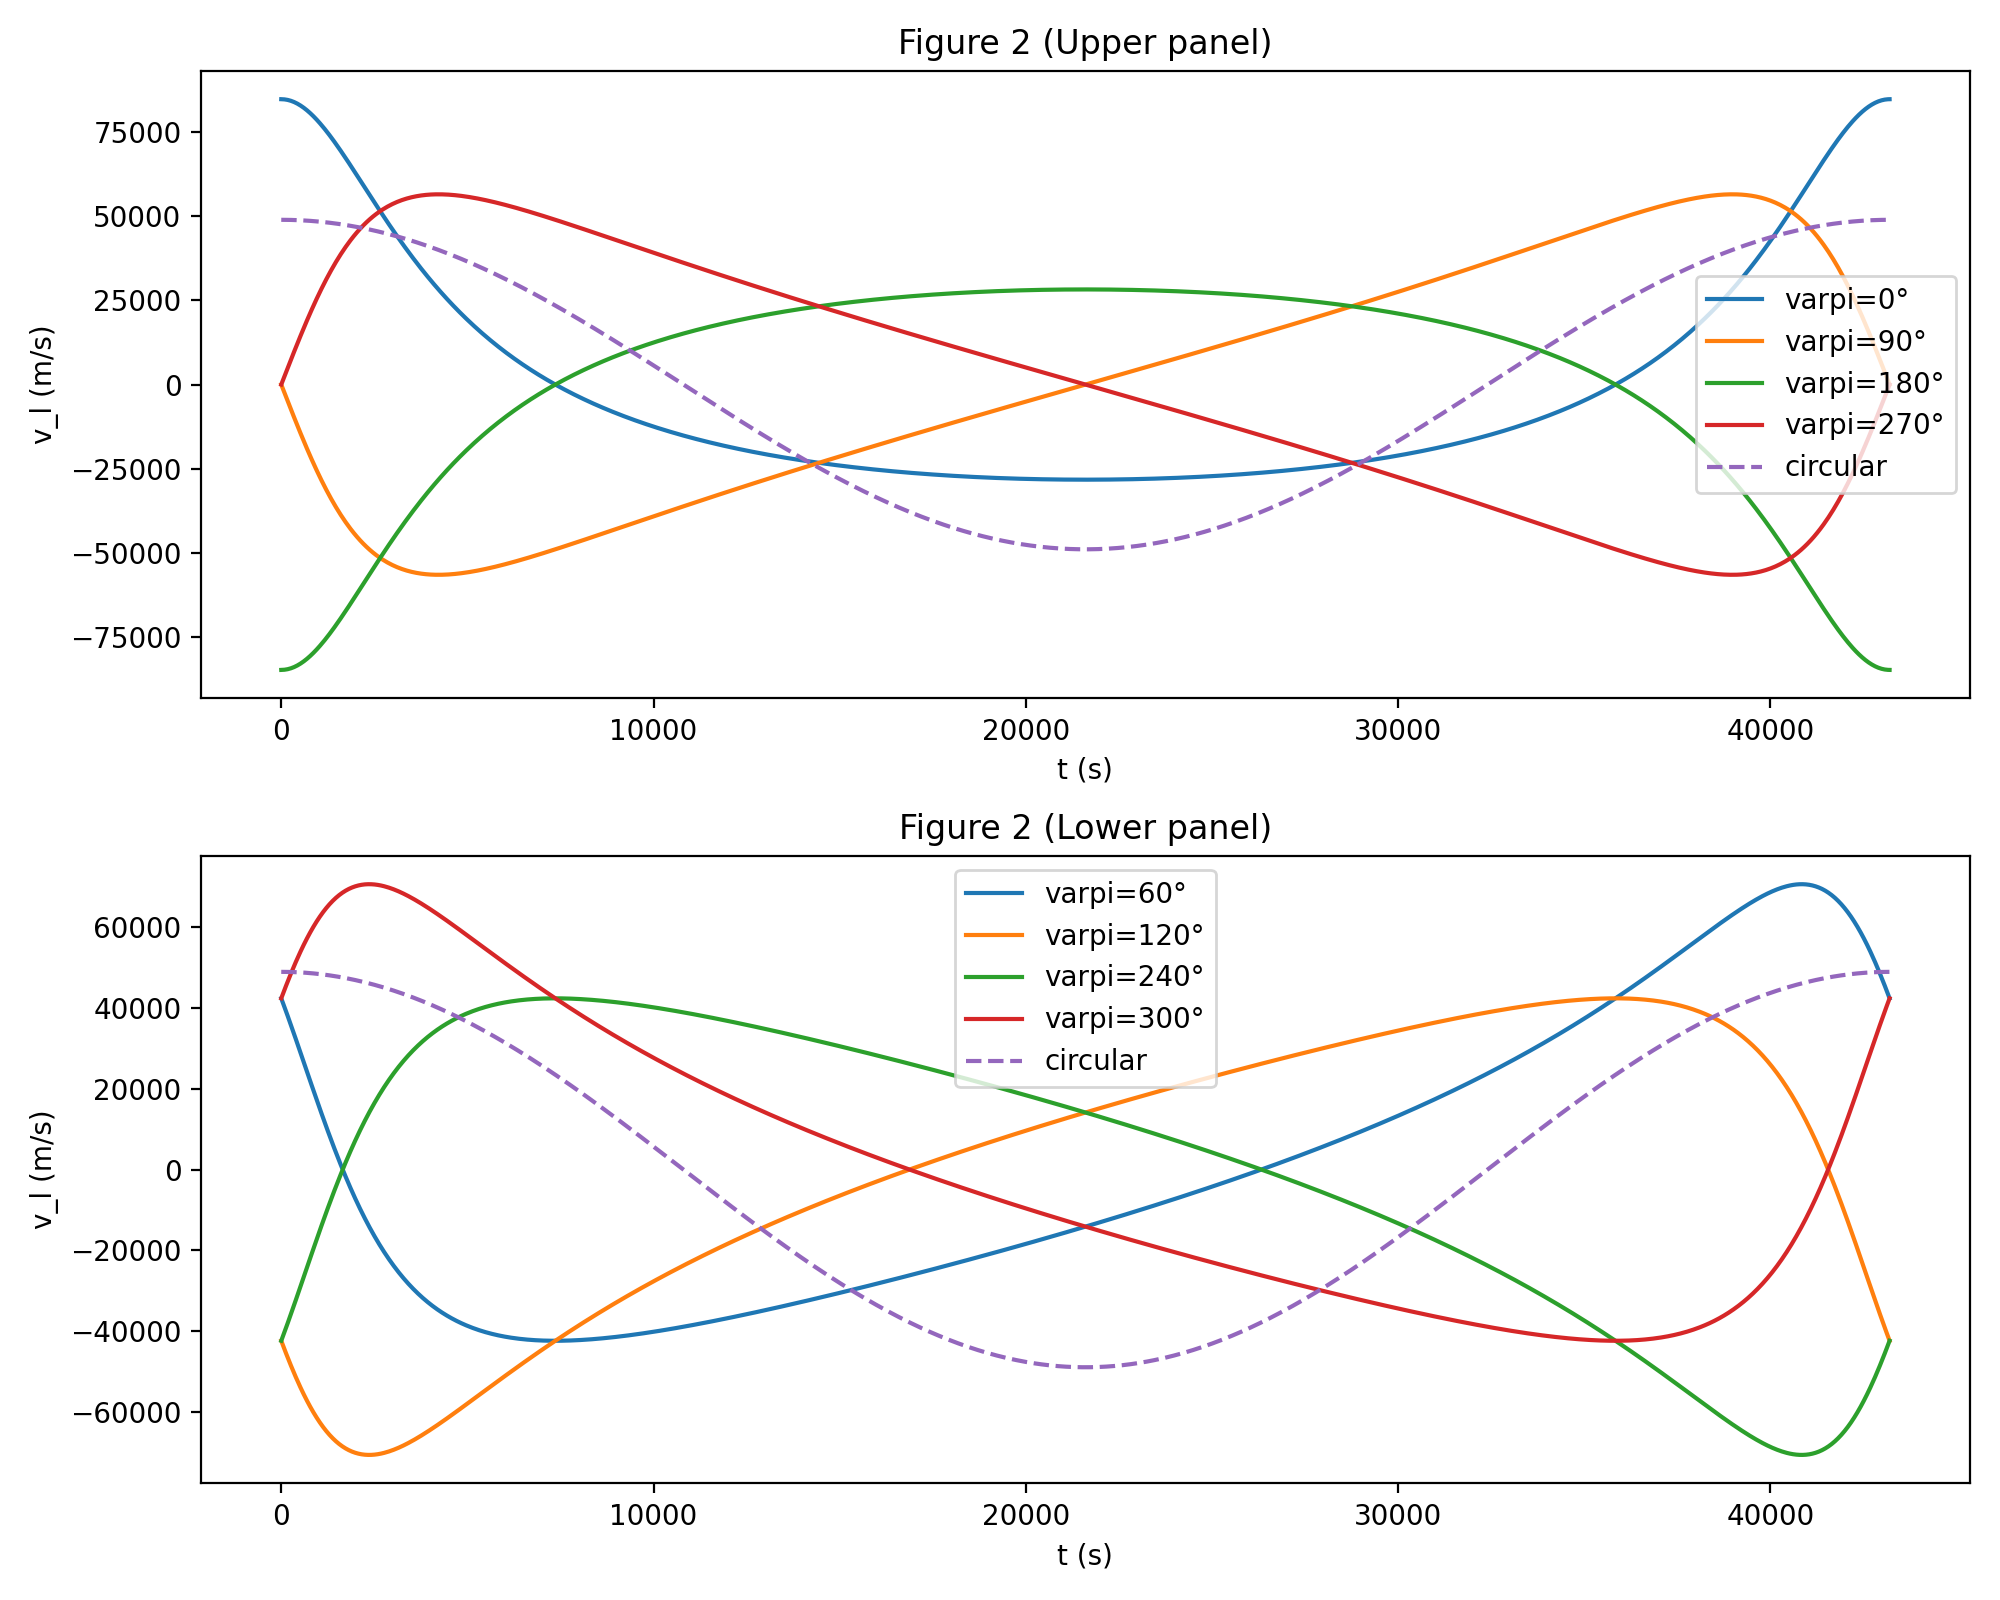
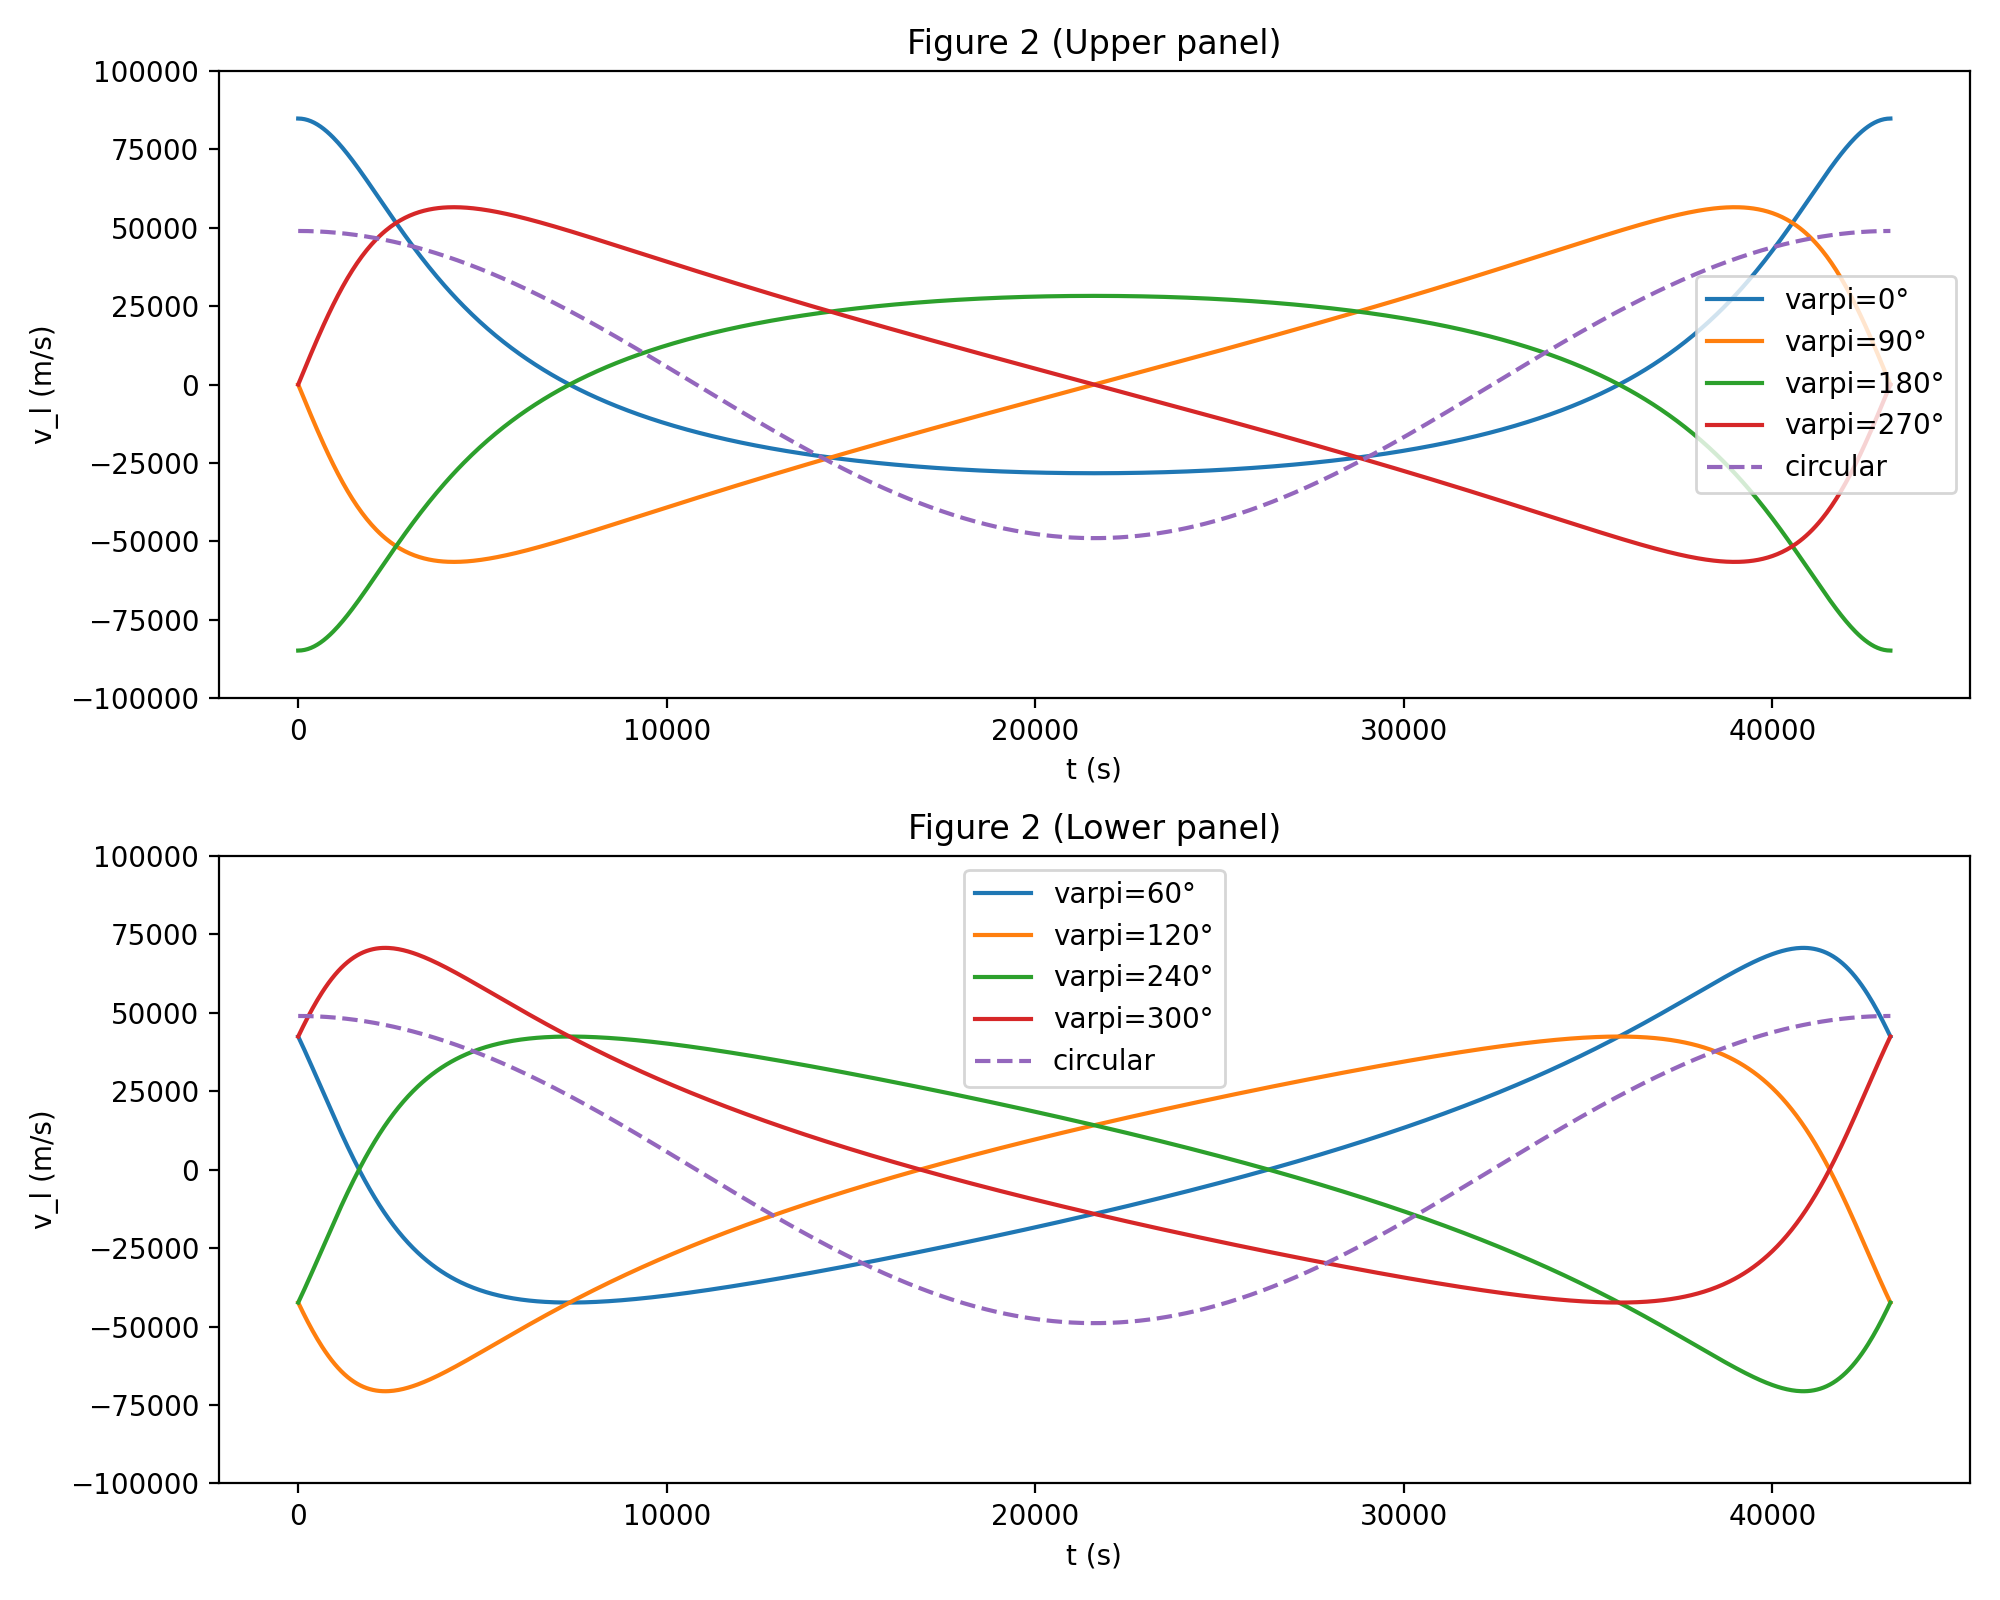
plot adjusted

diff --git a/plot.py b/plot.py
@@ -42,6 +42,7 @@ plt.xlabel("t (s)")
 plt.ylabel("v_l (m/s)")
 plt.title("Figure 2 (Upper panel)")
 plt.legend()
+plt.ylim(-100000, 100000) # adjust for good paper comparison
 
 # Lower panel
 plt.subplot(2,1,2)
@@ -54,6 +55,8 @@ plt.xlabel("t (s)")
 plt.ylabel("v_l (m/s)")
 plt.title("Figure 2 (Lower panel)")
 plt.legend()
+plt.ylim(-100000, 100000) # adjust for good paper comparison
+
 
 plt.tight_layout()
 plt.savefig("plots/fig2_velocity_py.png", dpi=200)
